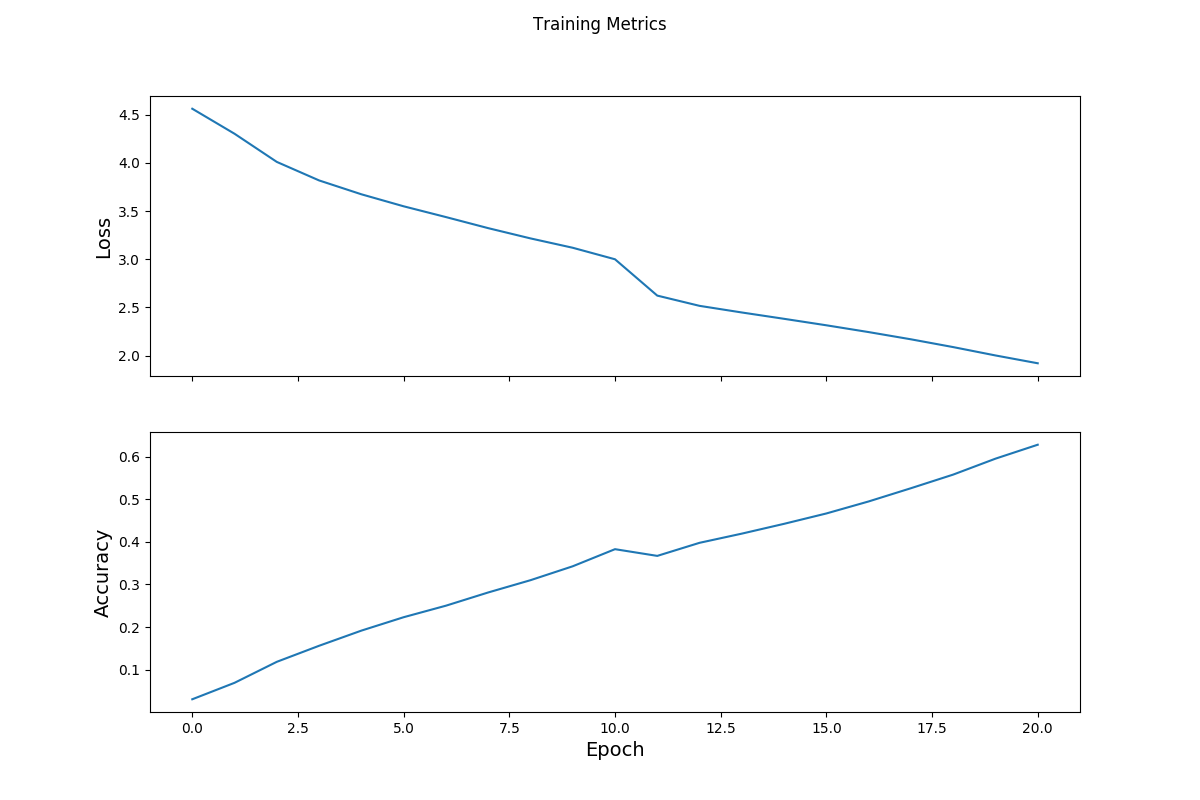
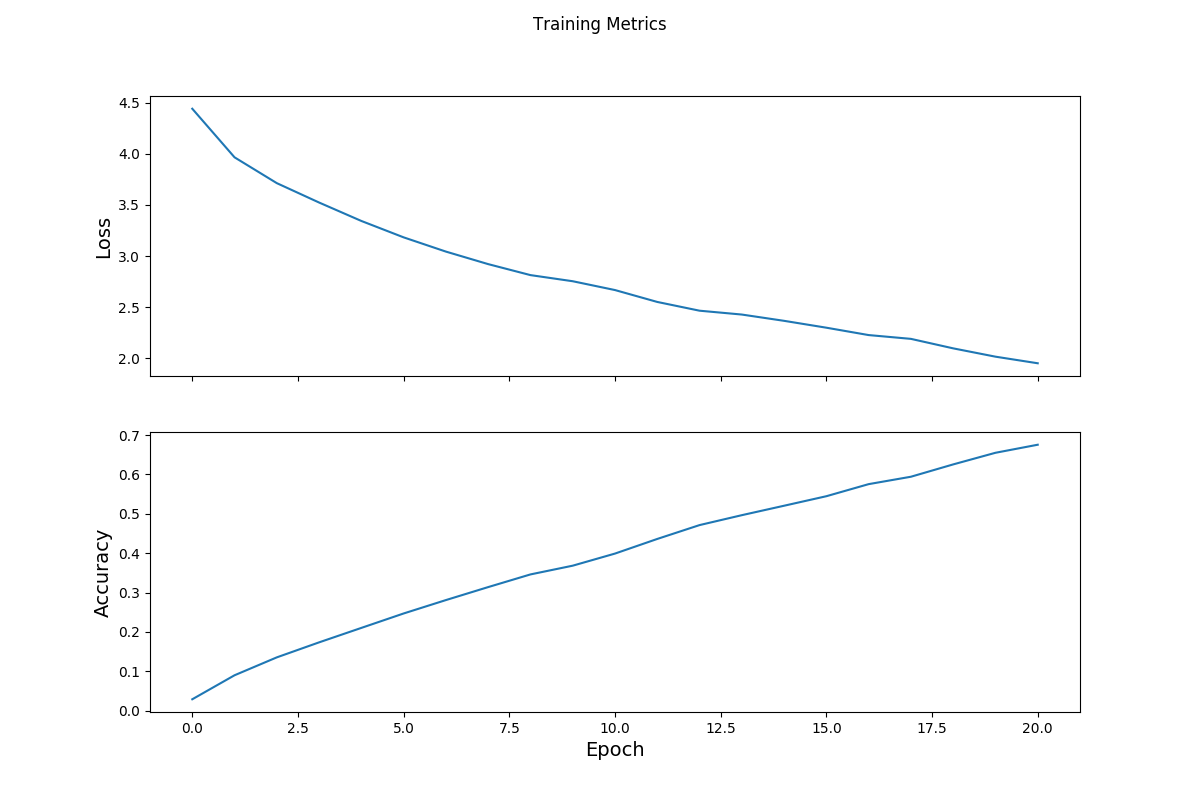
New: * Testing accuracy every epoch (untrained) * Plotting with test accuracy

diff --git a/model.py b/model.py
@@ -13,6 +13,14 @@ import tensorflow as tf
 from tensorflow.keras.layers import GlobalAveragePooling2D, Conv2D, BatchNormalization, Activation, MaxPooling2D, Dense
 from tensorflow.keras import Model
 
+'''
+TODO:
+- maskRCNN
+- Batchnorm layers freezing/training. Important for small size batch. 
+- LearningRateReducer:
+	1. tune plateau_range
+	2. At the end of training, learning rate always change. We could make plateau_range adaptive too (e.g. multiplied by LRR.factor)
+'''
 
 from distutils.version import LooseVersion
 assert LooseVersion(tf.__version__) >= LooseVersion("2.0.0-alpha0")
@@ -181,12 +189,61 @@ class Block(Model):
 		return Conv2D(channel_out, kernel_size=(1, 1), padding='same',
 						strides=strides, name=name) # strides=strides)
 
+	
+class LearningRateReducer:
+	"""
+	Belongs in utils.py
+	"""
+	def __init__(self, init_lr, factor, patience, refractory_interval, 
+		           plateau_range=0.01, min_lr=1e-05):
+		# minimum lr = 0.00001
+		self.learning_rate = init_lr
+		self.factor = factor
+		self.patience = patience
+		self.plateau_range = plateau_range
+		self.min_lr = min_lr
+		self.min_reached = False
+		self.last_few = []
+		#to make sure LR update is not triggered multiple times in a row
+		self.n_invocations = 0
+		self.ref_int = refractory_interval
+
+	def memorize_hist(self, history):
+		# currently unused
+		self.last_few.append(history[-1])
+		try:
+			self.last_few = self.last_few[-self.patience]
+		except IndexError:
+			print('you know what happened')
+			pass
+		
+
+	def monitor(self, history=[]):
+
+		self.n_invocations += 1
+		if self.n_invocations > self.ref_int and not self.min_reached:
+			last_few = history[-self.patience:]
+			cum_diff = np.abs(np.sum(np.diff(last_few)))
+
+			if cum_diff < self.plateau_range:
+				lr = self.learning_rate * self.factor
+				self.learning_rate = max(lr, self.min_lr)
+				self.n_invocations = 0
+
+				if self.learning_rate <= self.min_lr:
+					self.min_reached = True
+					self.learning_rate = self.min_lr
+					print("Hit Minimum LR: {:.5f}".format(self.min_lr))
+				# N in {:.Nf} should be changed if min_lr is. 
+				print("New Learning Rate: {:.5f}".format(self.learning_rate))
+		return self.learning_rate
+	
 
 if __name__ =='__main__':
 
 	''' GPU(s) '''
 	gpus = tf.config.experimental.list_physical_devices('GPU')
-	GPU_N = 4
+	GPU_N = 5
 	if gpus:
 		try:
 			tf.config.experimental.set_visible_devices(gpus[GPU_N], 'GPU')
@@ -225,23 +282,27 @@ if __name__ =='__main__':
 			loss_value = loss(model, inputs, targets)
 		return loss_value, tape.gradient(loss_value, model.trainable_variables)
 
-	@tf.function
-	def reduce_lr(learning_rate, epoch_loss, factor, patience=5, min_lr=0):
-		'''reduce learning rate on plateau'''
 		
-		if len(epoch_loss) > patience+1:
-			last_few = epoch_loss[-patience]
-			last_few = [float('inf')] + last_few
-			for i in range(patience):
-				decrease = last_few[i] > last_few[i+1]
-				if not decrease:
-					return learning_rate
-			return learning_rate / factor
+
+
+	# return lr_reducer
+	# hist1 = [90, 89, 88, 87, 86, 85, 84, 83]
+	# hist2 = [90, 89.5, 90, 90.5, 90, 89.5, 90, 90.5]
+	# adapt_lr = LearningRateReducer(0.1, 0.1, 4)
+	# 
+	# anslr1 = adapt_lr.monitor(hist1) # this should be 0.1
+	# anslr2 = adapt_lr.monitor(hist2) # this should be 0.01
+	
 
 
 	''' dataset and dataset iterator'''
-	cifar100 = tf.keras.datasets.cifar100
-	(x_train, y_train), (x_test, y_test) = cifar100.load_data(label_mode='fine')
+	## cifar100 is likey too small. Switching to imagenet2012
+	# cifar100 = tf.keras.datasets.cifar100
+	# (x_train, y_train), (x_test, y_test) = cifar100.load_data(label_mode='fine')
+
+	import tensorflow_datasets as tfds
+	tfds.list_builders()
+	import ipdb; ipdb.set_trace()
 	
 	# preprocess
 	x_train = (x_train.reshape(-1, 32, 32, 3) / 255).astype(np.float32)
@@ -257,6 +318,8 @@ if __name__ =='__main__':
 	#
 	# Alternatively, we can just iterate over the Datasets
 	# iff eager mode is on (i.e. by default).
+	train_set = train_set.shuffle(10000)
+	test_set.shuffle(10000)
 	b_train_set = train_set.batch(256)
 	b_test_set = test_set.batch(256)
 
@@ -264,22 +327,25 @@ if __name__ =='__main__':
 	''' model '''
 	from config import Config
 	from viz import *
+	from utils import test_model
 
 	mycon = Config()
 	model = ResNet((32, 32, 3), 100, mycon)
 	model.build(input_shape=(100, 32, 32, 3)) # place correct shape from imagenet
 
 	''' initialize '''
-	learning_rate = 0.1
+	# Reduce LR with *0.1 when plateau is detected
+	adapt_lr = LearningRateReducer(init_lr=0.1, factor=0.1,
+						patience=10, refractory_interval=20) # wait 20 epochs from last update
 	loss_object = tf.losses.SparseCategoricalCrossentropy()
-
-	optimizer = tf.keras.optimizers.SGD( lr=[reduce_lr], momentum = 0.9)
+	optimizer = tf.keras.optimizers.SGD(adapt_lr.monitor(), momentum = 0.9)
 
 
 	train_loss_results = []
 	train_accuracy_results = []
+	test_loss_results, test_acc_results = [], []
 
-	num_epochs = 500
+	num_epochs = 300
 	
 	
 	''' train '''
@@ -290,6 +356,7 @@ if __name__ =='__main__':
 		epoch_accuracy = tf.keras.metrics.SparseCategoricalAccuracy()
 		k = 0
 		
+		optimizer = tf.keras.optimizers.SGD(adapt_lr.monitor(train_loss_results), momentum = 0.9)
 
 		for batch in b_train_set:
 			img_btch, lab_btch = batch
@@ -301,59 +368,33 @@ if __name__ =='__main__':
 			if epoch < 1:
 				print("Epoch {:03d}: Batch: {:03d} Loss: {:.3%}, Accuracy: {:.3%}".format(epoch, k,  epoch_loss_avg.result(), epoch_accuracy.result()))
 			k+=1
-	
-		print("Epoch {:03d}: Loss: {:.3%}, Accuracy: {:.3%}".format(epoch, epoch_loss_avg.result(), epoch_accuracy.result()))
+		
+		print("Trainset >> Epoch {:03d}: Loss: {:.3%}, Accuracy: {:.3%}".format(epoch, epoch_loss_avg.result(), epoch_accuracy.result()))
 		# end epoch
+
+		#if int(epoch_accuracy.result() > 70):
+		test_loss, test_accuracy = test_model(model, b_test_set)
+
+		test_loss_results.append(test_loss)
+		test_acc_results.append(test_accuracy)
 		train_loss_results.append(epoch_loss_avg.result())
 		train_accuracy_results.append(epoch_accuracy.result())
+
+		# import ipdb; ipdb.set_trace()
 		
-		if epoch % 50 == 0:
-			fname = 'imgs/Accuracy_Loss_' + str(epoch) + '.png'
-			save_plot(train_loss_results, train_accuracy_results, fname)
+		if epoch % 100 == 0:
+			fname = 'imgs/Test_Acc_Loss_CIFAR100_' + str(epoch) + '.png'
+			# here we should plot metrics and loss for test too. 
+			# hence TODO: update save_plot
+			loss_l = [train_loss_results, test_loss_results]
+			acc_l = [train_accuracy_results, test_acc_results]
+			save_plot(loss_l, acc_l, fname)
 		
 		#if train_loss_results[-1] > train_loss_results[-2]: # was if epoch == 10:
 		#	learning_rate /= 10
 		#	optimizer = tf.keras.optimizers.SGD(lr=learning_rate, momentum=0.9)
 		#	print("Sir, we just updated the learning rate Sir.")
-		
 	
 	
-
-	''' test '''
-	# initialize 1) loss object, 2) overall metrics, 3) per batch metric lists. 
-	loss_object = tf.losses.SparseCategoricalCrossentropy()
-
-	test_loss_avg = tf.keras.metrics.Mean()
-	test_accuracy = tf.keras.metrics.SparseCategoricalAccuracy()
-
-	pbtch_loss_results = []
-	pbtch_accuracy_results = []
-	k = 0 # batch counter
 	
-	for batch in b_test_set:
-
-		btch_accuracy = tf.keras.metrics.SparseCategoricalAccuracy()
-		
-		# compute loss
-		img_btch, lab_btch = batch
-		loss_value = loss(model, img_btch, lab_btch)
-		
-		# compute metrics per batch.
-		pbtch_loss_results.append(loss_value)
-
-		btch_accuracy(lab_btch, model(img_btch))
-		pbtch_accuracy_results.append(btch_accuracy.result())
-
-		# and whole test set. 
-		test_accuracy(lab_btch, model(img_btch))
-		test_loss_avg(loss_value)
-
-
-		print("Batch: {:03d} Loss: {:.3%}, Accuracy: {:.3%}".format(k,  loss_value, btch_accuracy.result()))
-		k+=1
-
-	save_plot(pbtch_loss_results, pbtch_accuracy_results, 'imgs/TEST.png')
-	print("Overall performance:")
-	print("Loss: {:.3%}, Accuracy: {:.3%}".format(epoch, epoch_loss_avg.result(), epoch_accuracy.result()))
-
 	import ipdb; ipdb.set_trace()

diff --git a/utils.py b/utils.py
@@ -12,4 +12,47 @@
 		- RoI classification branch predicts category. 
 '''
 
+import tensorflow as tf
+from viz import save_plot
 
+
+def test_model(model, test_set):
+	''' test '''
+# initialize 1) loss object, 2) overall metrics, 3) per batch metric lists. 
+	def loss(model, x, y):
+		y_ = model(x)
+		return loss_object(y_true=y, y_pred=y_)
+
+	loss_object = tf.losses.SparseCategoricalCrossentropy()
+
+	test_loss_avg = tf.keras.metrics.Mean()
+	test_accuracy = tf.keras.metrics.SparseCategoricalAccuracy()
+
+	pbtch_loss_results = []
+	pbtch_accuracy_results = []
+	k = 0 # batch counter
+	
+	for batch in test_set:
+
+		btch_accuracy = tf.keras.metrics.SparseCategoricalAccuracy()
+		
+		# compute loss
+		img_btch, lab_btch = batch
+		loss_value = loss(model, img_btch, lab_btch)
+		
+		# compute metrics per batch.
+		pbtch_loss_results.append(loss_value)
+
+		btch_accuracy(lab_btch, model(img_btch))
+		pbtch_accuracy_results.append(btch_accuracy.result())
+
+		# and whole test set. 
+		test_accuracy(lab_btch, model(img_btch))
+		test_loss_avg(loss_value)
+		# print("Batch: {:03d} Loss: {:.3%}, Accuracy: {:.3%}".format(k,  loss_value, btch_accuracy.result()))
+		k+=1
+
+	# save_plot(pbtch_loss_results, pbtch_accuracy_results, 'imgs/TEST.png')
+	print("Performance on Test set: Loss: {:.3%}, Accuracy: {:.3%}".format(test_loss_avg.result(), test_accuracy.result()))
+
+	return [test_loss_avg.result(), test_accuracy.result()]

diff --git a/viz.py b/viz.py
@@ -1,5 +1,6 @@
 import matplotlib.pyplot as plt
 import numpy as np
+import os
 
 
 def save_plot(loss_results, accuracy_results, fname):
@@ -7,12 +8,25 @@ def save_plot(loss_results, accuracy_results, fname):
 	fig.suptitle('Training Metrics')
 	
 	axes[0].set_ylabel("Loss", fontsize=14)
-	axes[0].plot(loss_results)
+	colors = ['steelblue', 'firebrick']
+
+	for series, c in zip(loss_results, colors):
+		axes[0].plot(series, color=c)
 	
 	axes[1].set_ylabel("Accuracy", fontsize=14)
 	axes[1].set_xlabel("Epoch", fontsize=14)
-	axes[1].plot(accuracy_results)
-	plt.savefig(fname)
-	plt.close()
+	
+	for series, c in zip(accuracy_results, colors):
+		axes[1].plot(series, color=c)
+	
+	fname = os.path.abspath(fname)
+	cont_folder = os.path.dirname(fname)
+	if os.path.exists(cont_folder):
+		plt.savefig(fname)
+	else:
+		os.makedirs(cont_folder)
+		plt.savefig(fname)
+	
 	print('plot saved')
 
+	
